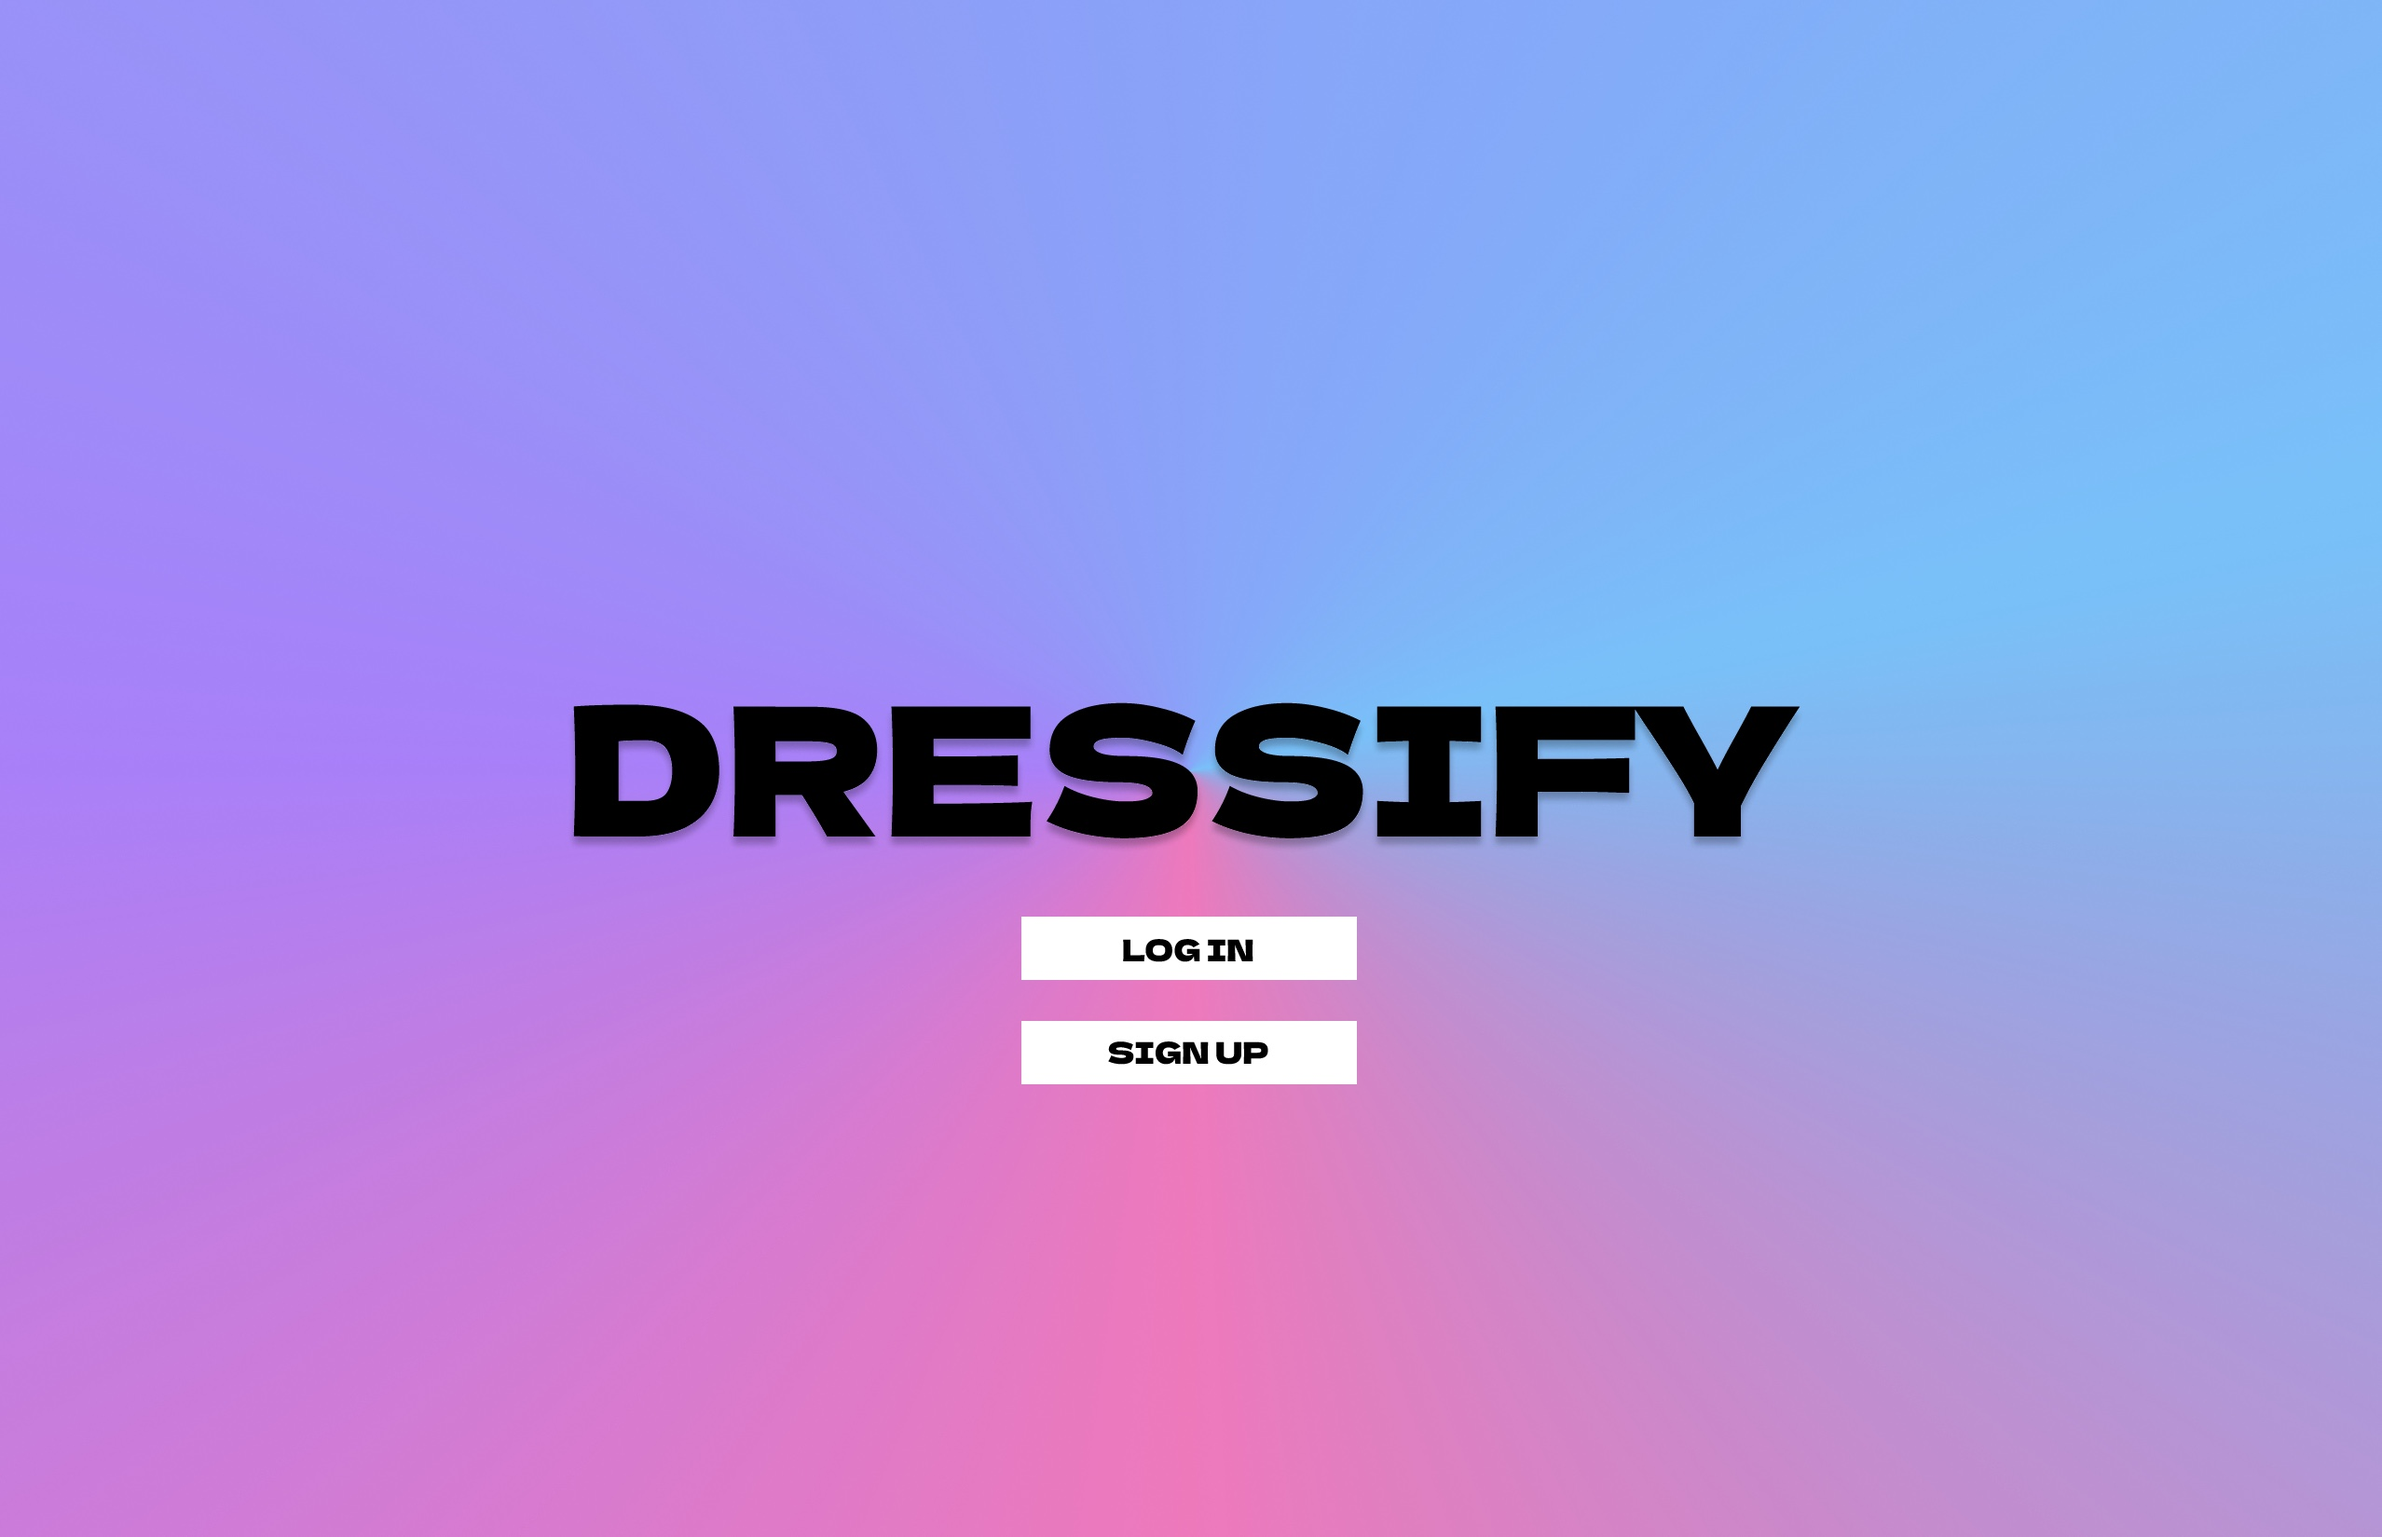
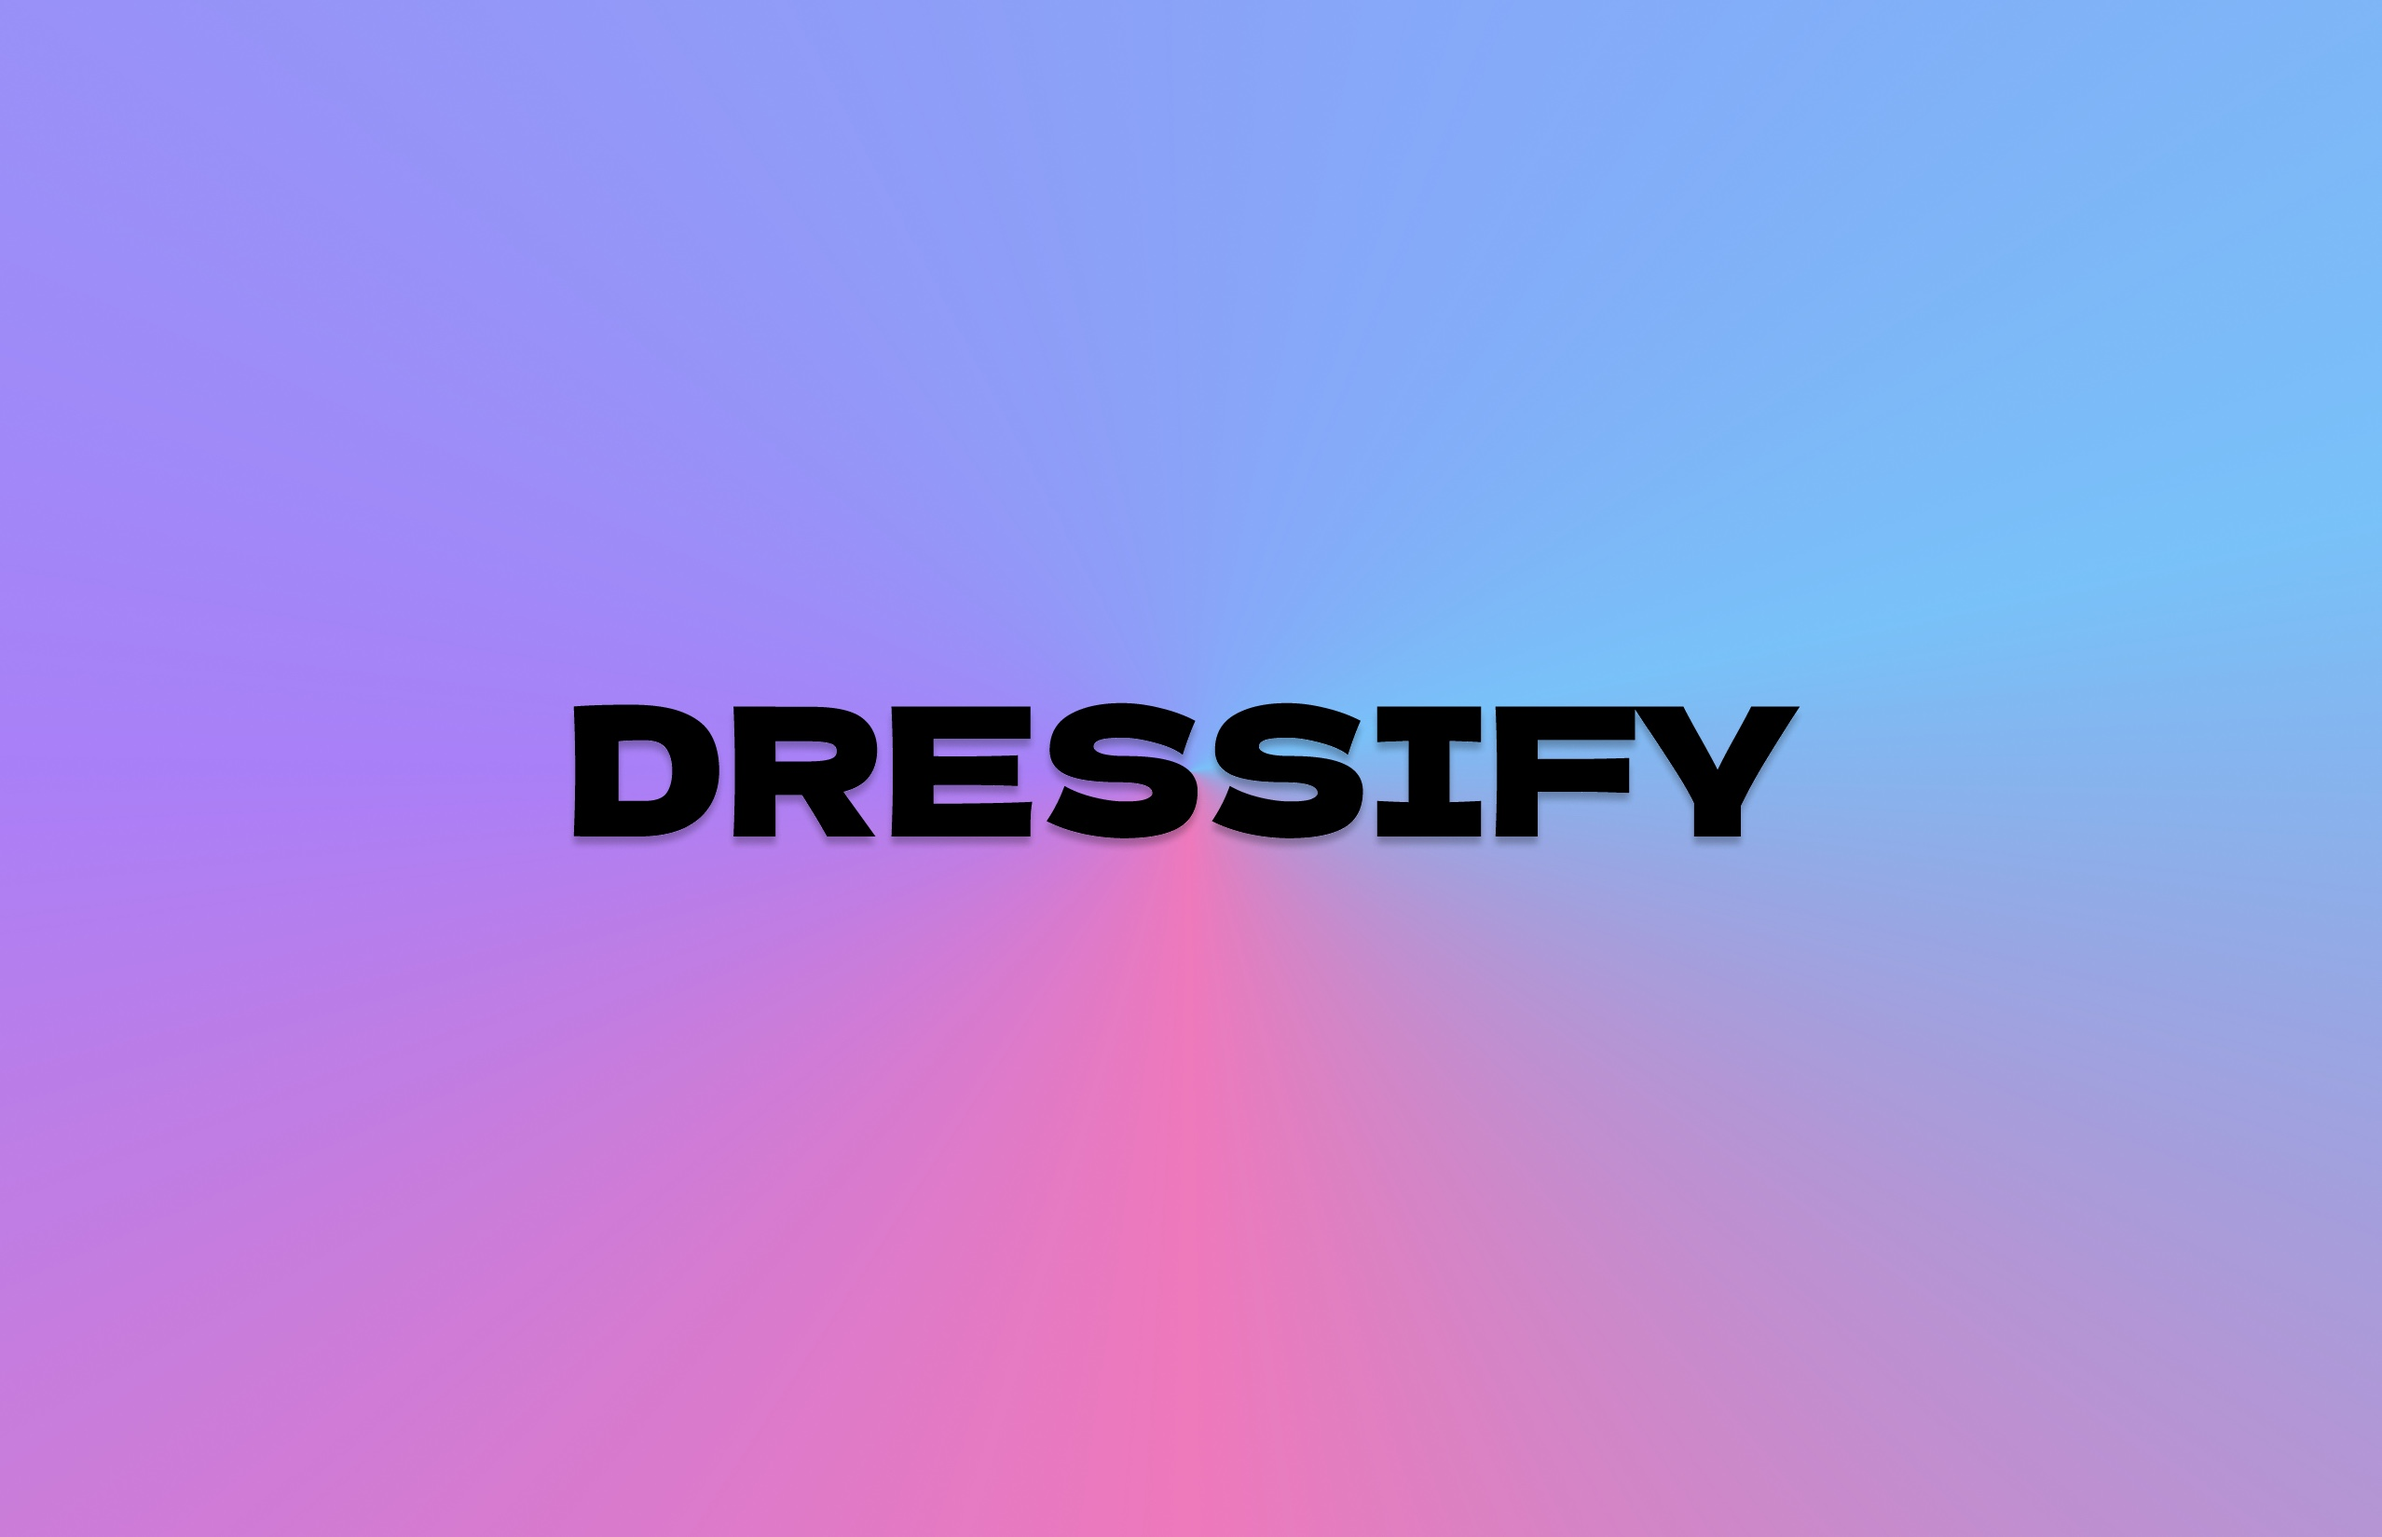
finished coding initial screen

Changed region(s): [[0.4018, 0.5873, 0.5872, 0.7109]]

diff --git a/login.html b/login.html
@@ -8,23 +8,52 @@
     <!-- Bootstrap CSS -->
     <link href="https://cdn.jsdelivr.net/npm/bootstrap@5.3.0-alpha1/dist/css/bootstrap.min.css" rel="stylesheet">
 </head>
-<body>
     
+<body>
     <style>
         body {
-          background-image: url('initialPage.jpg');
-          background-repeat: no-repeat;
-          background-attachment: fixed;
-          background-size: 100% 105%;
+            background-image: url('images!/initialPage.jpg');
+            background-repeat: no-repeat;
+            background-attachment: fixed;
+            background-size: 100% 105%; /* Cover the full area */
+            margin: 0; /* Remove default margin */
+            height: 100vh; /* Set body height to full viewport height */
+            position: relative; /* Set the body as the reference for absolute positioning */
         }
-        </style>
 
-    <div class="container", style="text-align: center">
+        .button-container {
+            position: absolute; /* Allow absolute positioning for the button */
+            top: 65.2%; /* Change this value to move the button vertically */
+            left: 50%; /* Change this value to move the button horizontally */
+            transform: translate(-50%, -50%); /* Center the button */
+            height: 42px;
+            width: 230px
+        }
+
+        button {
+            background-color: transparent; /* Make the button background transparent */
+            border: none; /* Remove the button border */
+            cursor: pointer; /* Change cursor on hover */
+        }
+
+        button img {
+            display: block; /* Prevents any gap below the image */
+        }
+        
+
+        
+    </style>
+
+    <div class="button-container">
         <button type="submit">
-            <img src="" padding="15px 32px" border="0"/>
-          </button>
+            <img src="images!/logInButton.jpg" width="215" height="42" border="0"/>
+        </button>
 
+        <button type="submit">
+            <img src="images!/signUpButton.jpg" width="215" height="42" border="0"/>
+        </button>
     </div>
-
 </body>
+
+</head>
 </html>
